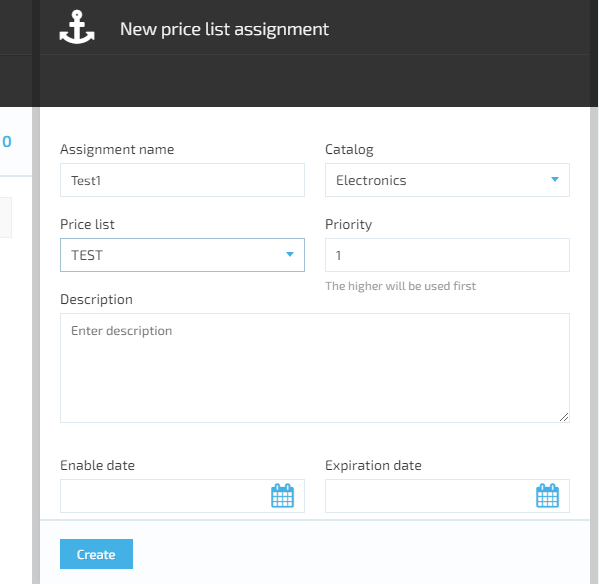
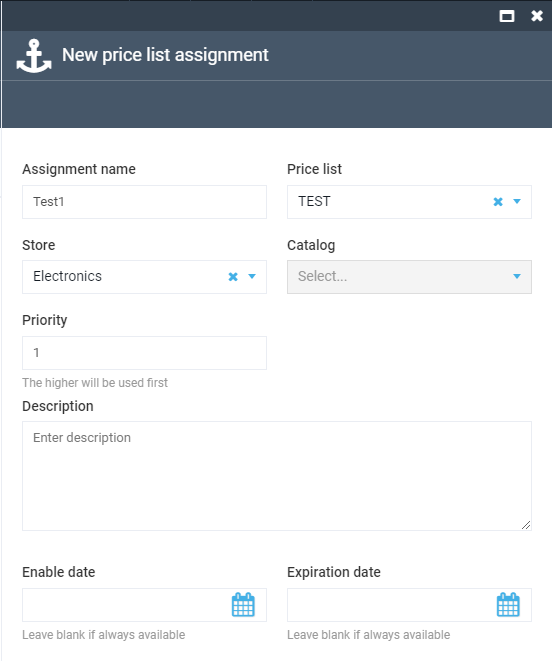
docs: Update PriceList Assignment documentation

diff --git a/docs/add-new-assignment.md b/docs/add-new-assignment.md
@@ -11,7 +11,8 @@
 1. The system opens a new screen with an active **Add** button that enables the user to add a new Assignment to the selected Price List
 1. The user clicks the **Add** button and the system opens the **New Price List Assignment** screen. The screen will display the following elements:
     1. Assignment Name input field - required
-    1. Catalog drop down - required.
+    1. Catalog drop down - disabled if Store is selected.
+    1. Store drop down - disabled is Catalog is selected. 
     1. Price List drop down- required
     1. Priority input field - required
     1. Description input field- optional
@@ -25,7 +26,7 @@
     1. **Create** button becomes active only when required fields are filled out
 1. The user fills out the required data:
     1. Enters the Assignment Name
-    1. Selects the Catalog from the drop-down list
+    1. Selects the Catalog or Store from the drop-down list. User can select either Catalog or Store to attach an assignment to.
     1. Selects the Price List from the drop-down list
     1. Specifies the Priority (1, 2, 3, etc.). The system will then display on the Storefront the Price List with the highest priority
     1. The user can also fill out the fill out the **Description** field, but it’s optional
